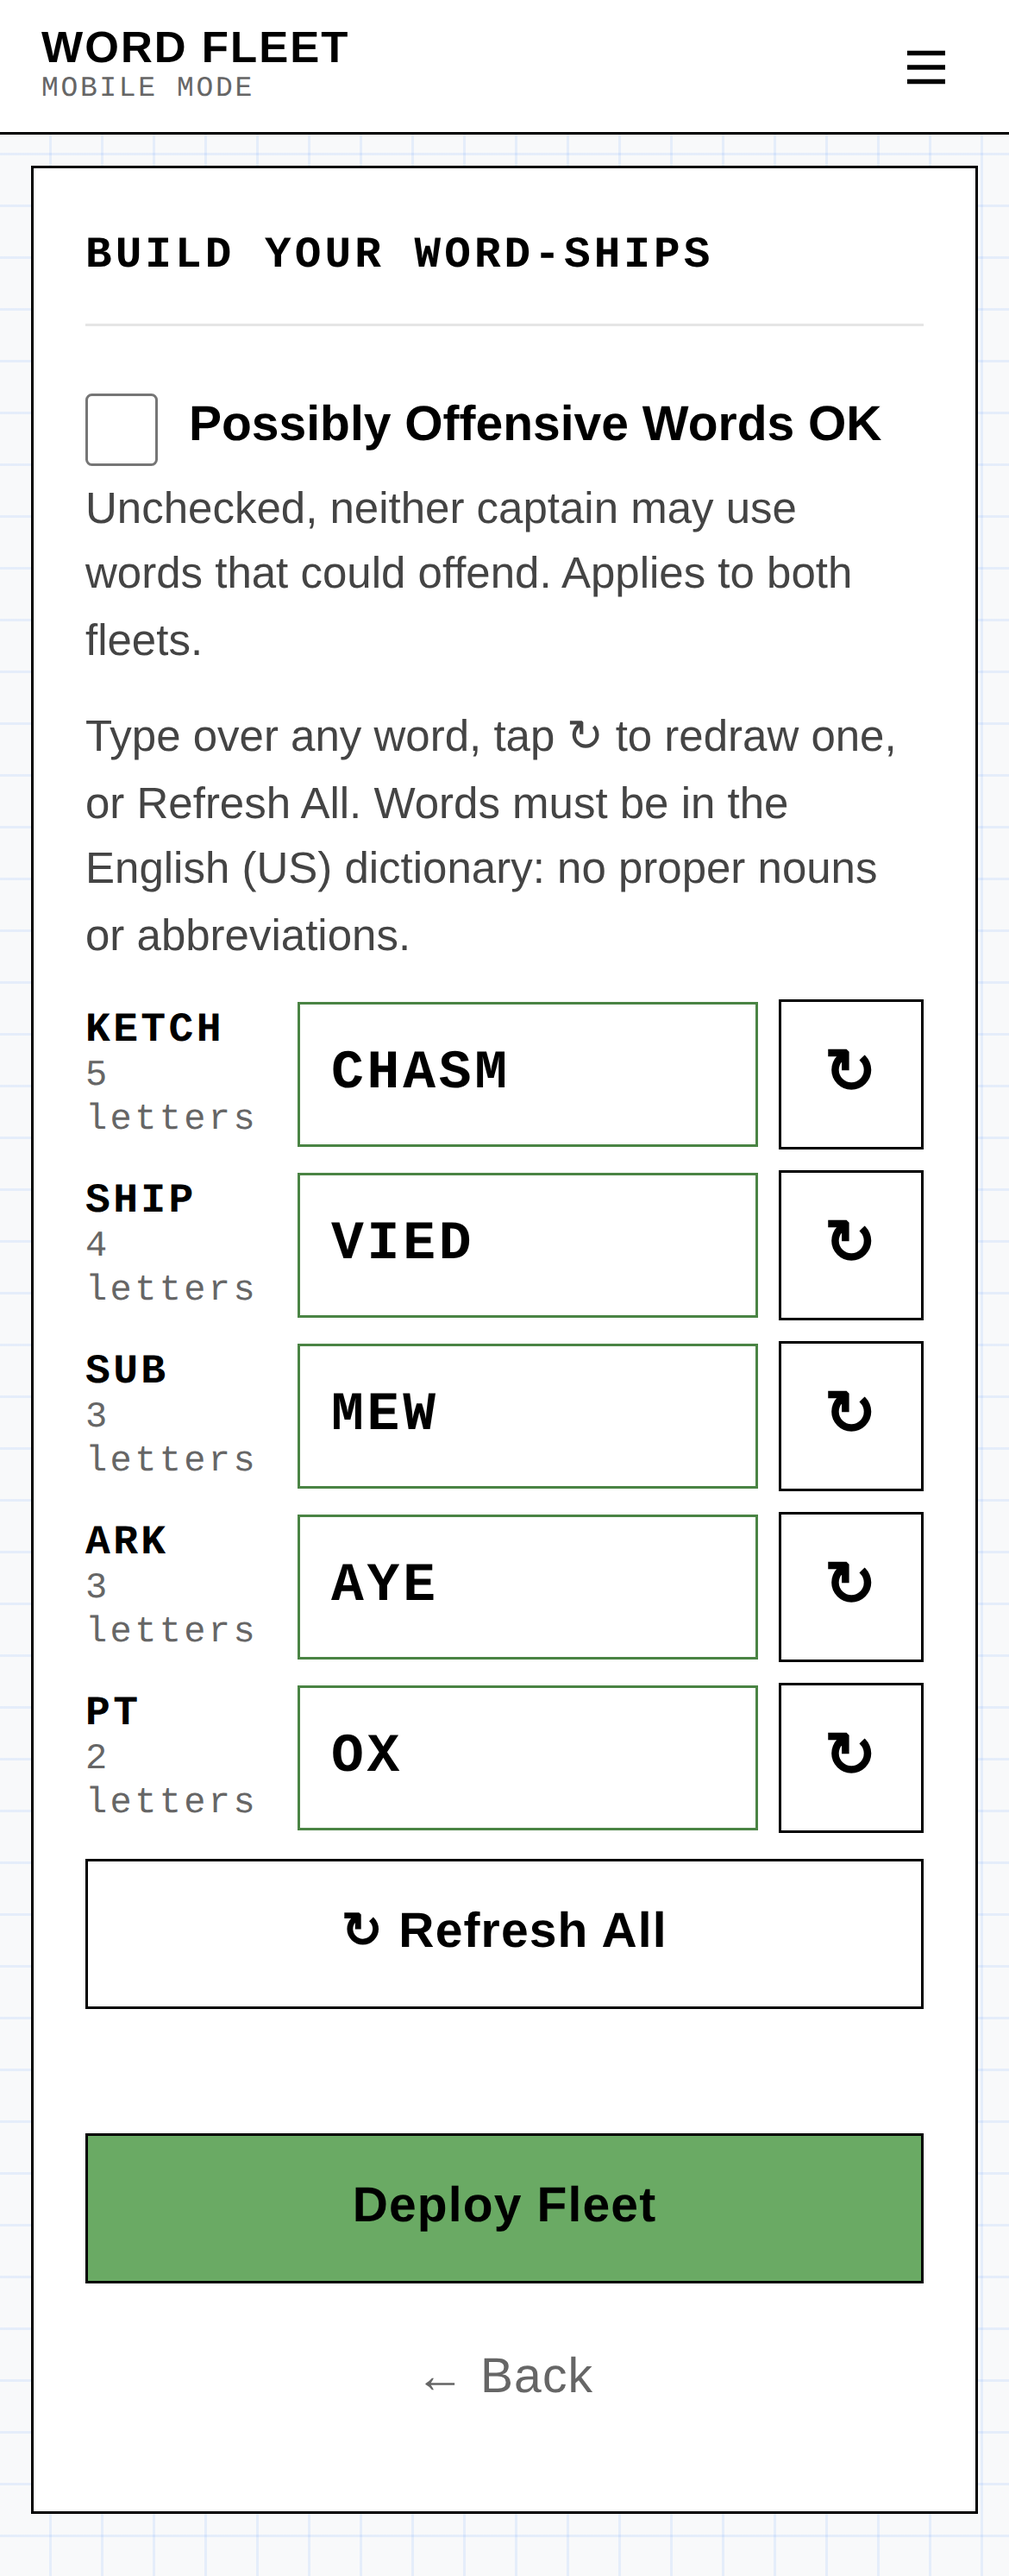
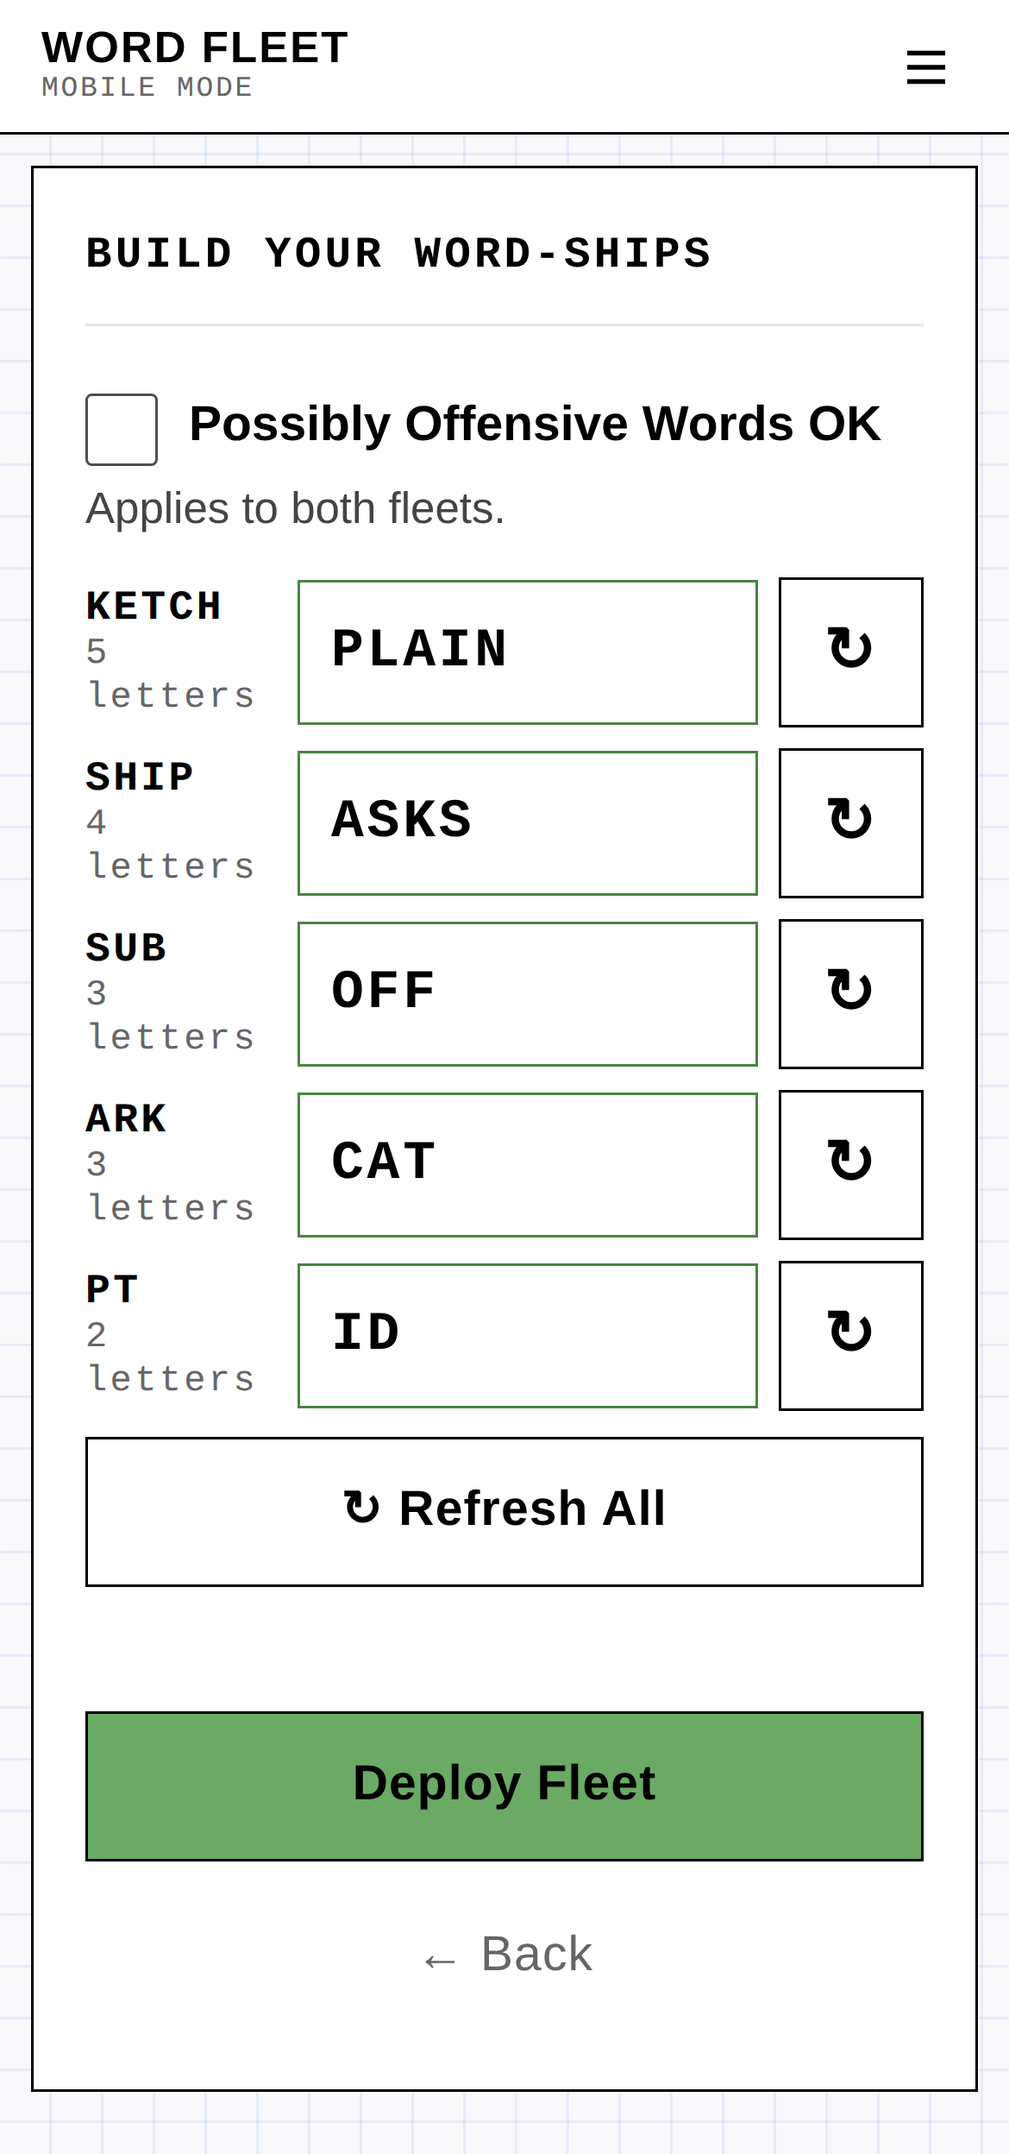
003: trim hints to 'Applies to both fleets.'
Claude-Session: https://claude.ai/code/session_013sUGAAEC45a1EJCrQWVj9Q

diff --git a/mobile/index.html b/mobile/index.html
@@ -18,7 +18,7 @@
   <link rel="preconnect" href="https://fonts.gstatic.com" crossorigin>
   <link href="https://fonts.googleapis.com/css2?family=Courier+Prime:wght@400;700&family=Inter:wght@400;500;600;700&display=swap" rel="stylesheet">
   <!-- Bump ?v= on every release (and CACHE in sw.js) so a new page never runs old code. -->
-  <link rel="stylesheet" href="app.css?v=43">
+  <link rel="stylesheet" href="app.css?v=44">
 </head>
 <body>
 
@@ -90,9 +90,8 @@
     <div class="card">
       <div class="card-title">Build Your Word-Ships</div>
       <label class="check check--top"><input type="checkbox" id="chkOffensive"> Possibly Offensive Words OK</label>
-      <p class="hint hint--tight">Unchecked, neither captain may use words that could offend. Applies to both fleets.</p>
+      <p class="hint hint--tight">Applies to both fleets.</p>
 
-      <p class="hint hint--label" id="modeHint"></p>
       <div id="wordList"></div>
       <button class="btn btn--wide btn--sm-gap" id="btnRefreshAll" type="button">&#x21bb; Refresh All</button>
       <p class="note" id="setupNote"></p>
@@ -212,7 +211,7 @@
 
 <div class="toast" id="toast" hidden></div>
 
-<script src="audio.js?v=43"></script>
-<script src="app.js?v=43"></script>
+<script src="audio.js?v=44"></script>
+<script src="app.js?v=44"></script>
 </body>
 </html>

diff --git a/mobile/app.js b/mobile/app.js
@@ -377,8 +377,6 @@
     $('chkOffensive').checked = offensiveOk();
     setSeg('segLevel', S.level);
     $('levelHint').innerHTML = esc(LEVELS[S.level].hint) + ' <strong>e.g. ' + LEVELS[S.level].example + '</strong>';
-    $('modeHint').textContent = 'Type over any word, tap \u21bb to redraw one, or Refresh All. Words must be in the ' +
-      (lang ? lang.name : '') + ' dictionary: no proper nouns or abbreviations.';
     var html = '<div class="words">';
     SPECS.forEach(function (spec, i) {
       var w = S.me.words[i] || '';

diff --git a/mobile/sw.js b/mobile/sw.js
@@ -1,11 +1,11 @@
 /* Word Fleet service worker: the whole game works offline once loaded. */
-var CACHE = 'wordfleet-v43';
+var CACHE = 'wordfleet-v44';
 var SHELL = [
   './',
   'index.html',
-  'app.css?v=43',
-  'app.js?v=43',
-  'audio.js?v=43',
+  'app.css?v=44',
+  'app.js?v=44',
+  'audio.js?v=44',
   'manifest.webmanifest',
   'icons/icon-180.png',
   'icons/icon-192.png',
